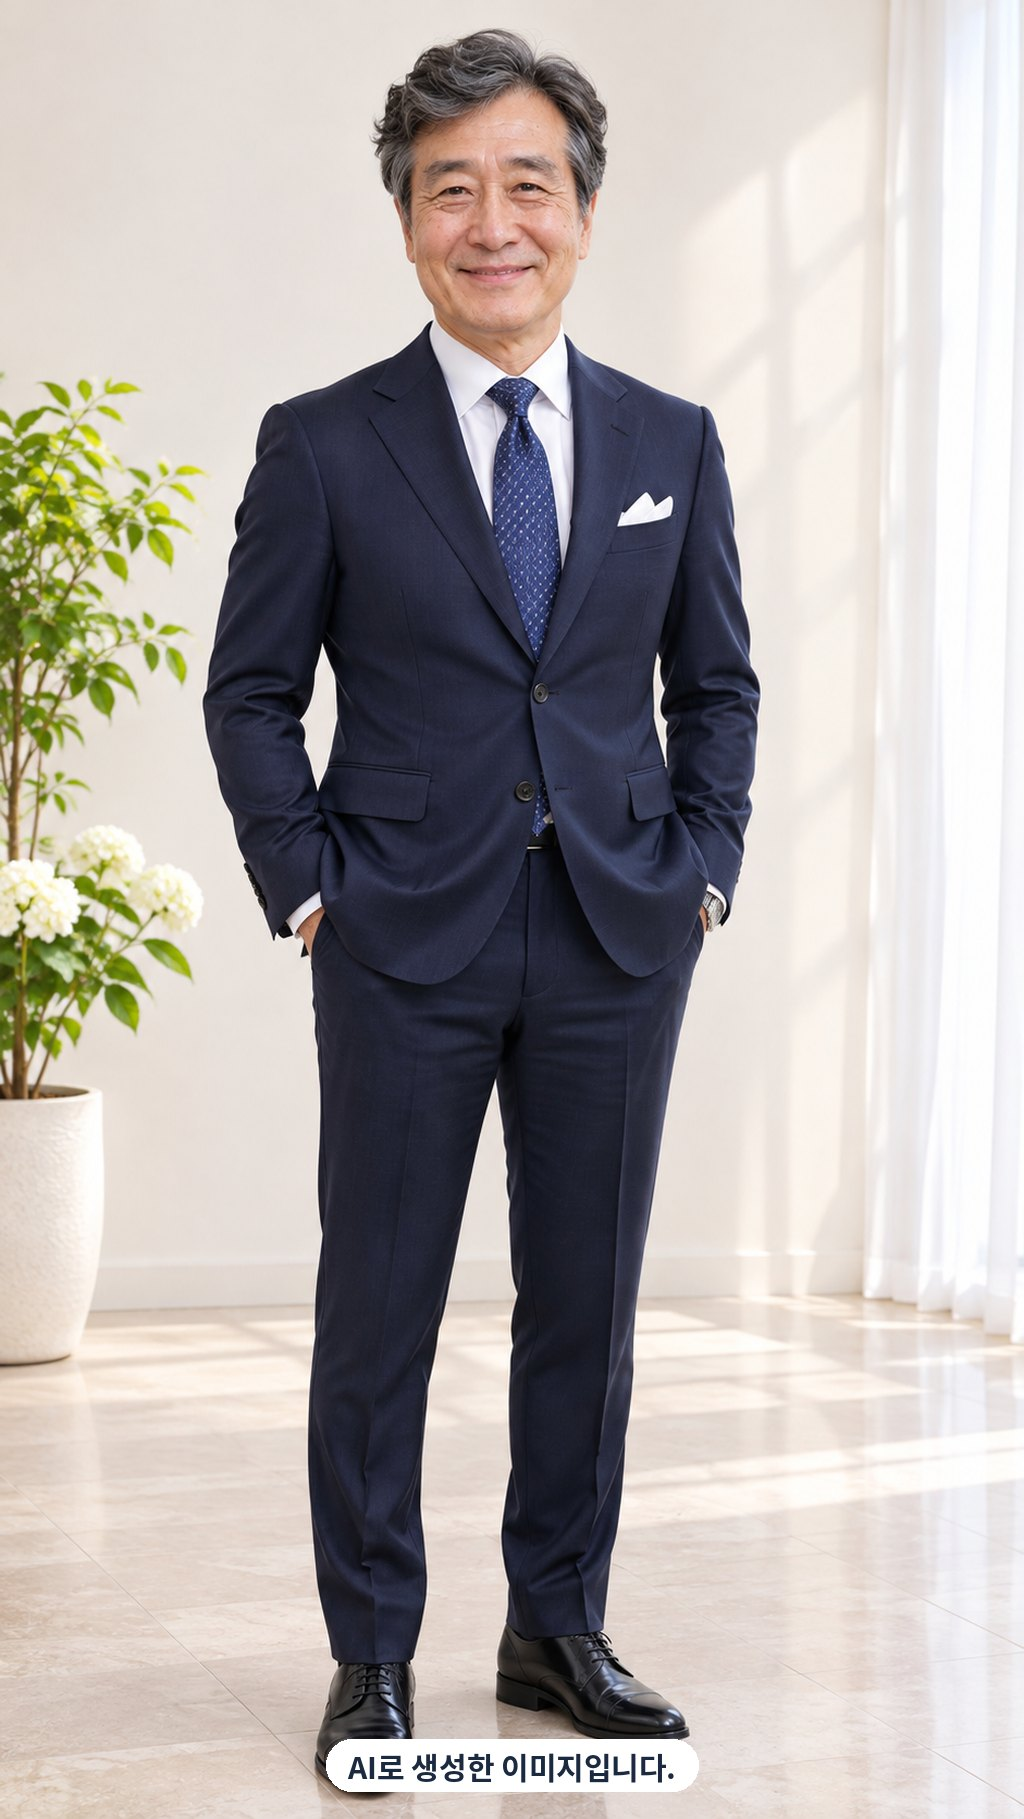
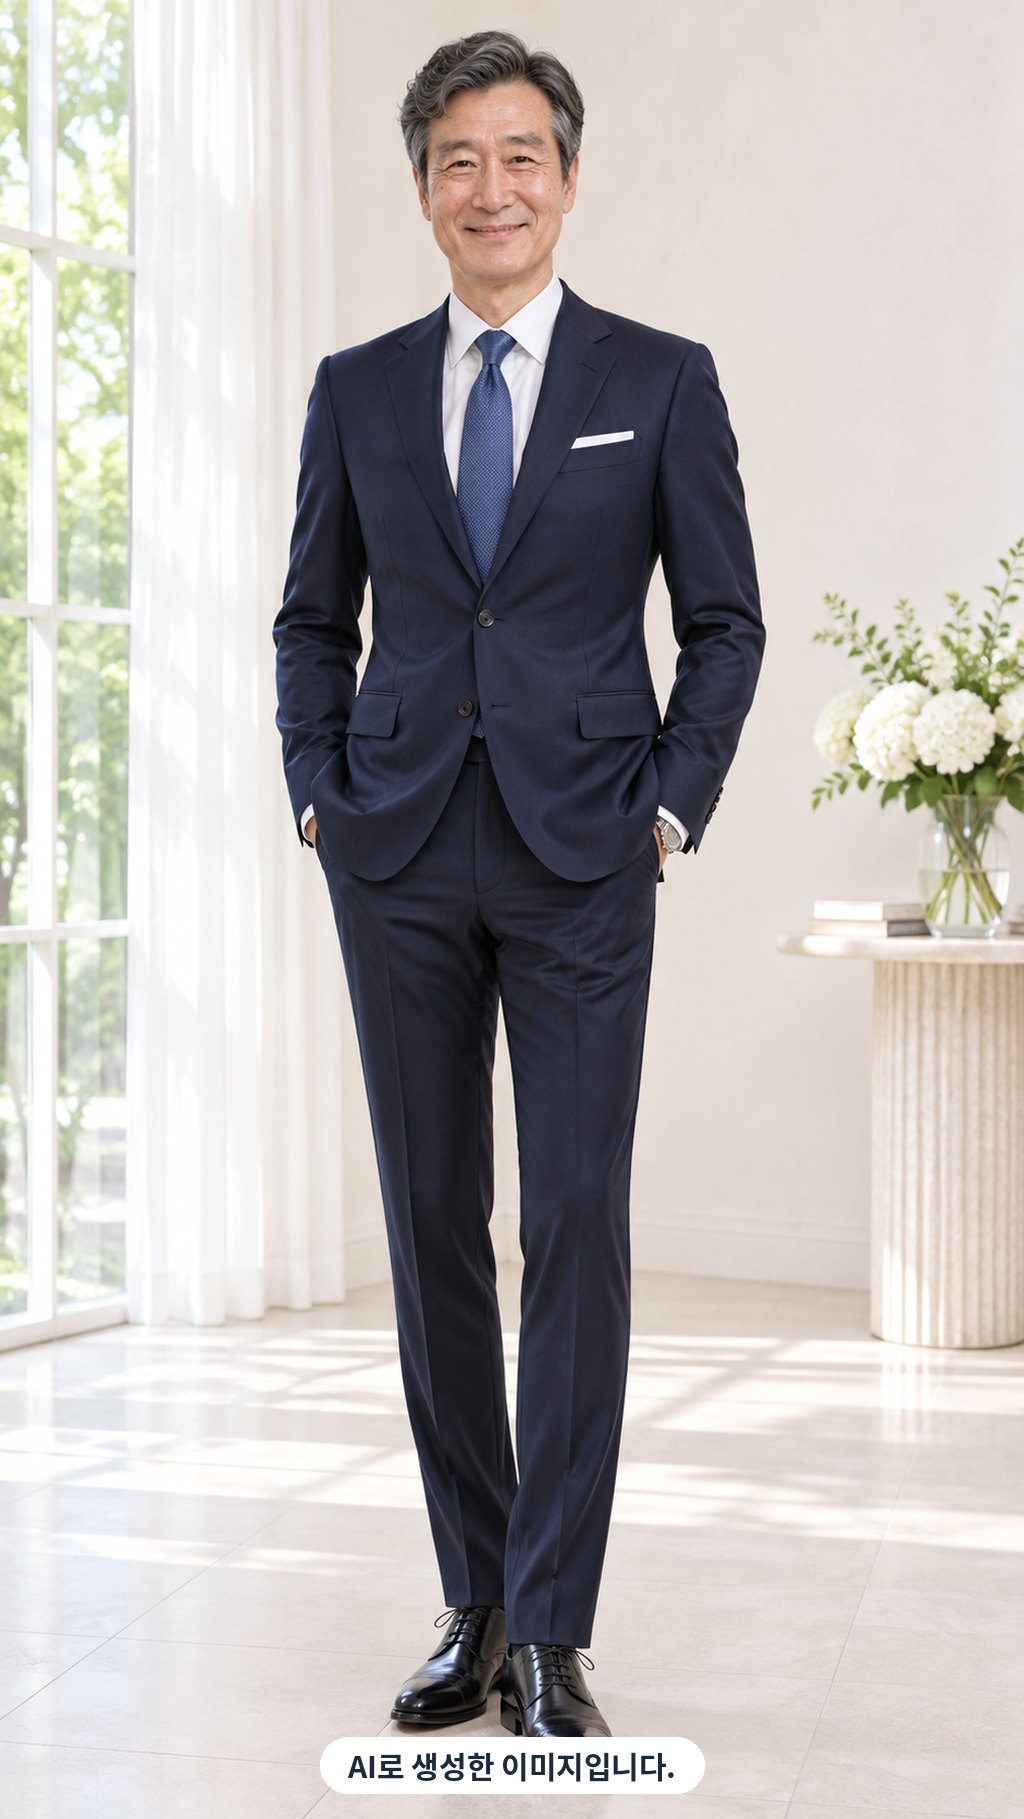
v1.0 미리보기: 옷 갈아입히기 문장에 체형 문구, 예시 그림 교체
Claude-Session: https://claude.ai/code/session_01RnSNps6Fvv7BtyvBn44HhM

diff --git a/menu.js b/menu.js
@@ -74,6 +74,8 @@ window.MENU = {
     "글영상": { items: [["생성 유형", "동영상"], ["사진", "넣지 않아요"], ["방향", "세로 9:16"], ["출력 수", "×1"], ["모델", "Omni 1.2 Flash"], ["화질", "360p"], ["길이", "5초"]],
       note: "이대로 맞추면 영상 1개에 5크레딧이 들어요 (무료는 하루 50크레딧)" }
   },
+  /* 문장 틀 바꾸기 (미리보기용). 챗GPT 시험에서 머리 비율이 가장 나았던 문구 */
+  template: { "11-1": "사진 속 인물이 {명절} 자연스럽게 미소를 짓는 모습으로 만들어 줘. 밝고 화사한 컬러 사진, 얼굴이 작고 키가 큰 모델 같은 체형, 머리부터 발끝까지 나오는 전신 사진, 9:16 비율." },
   rename: {
     "11-1": "내 사진 옷 갈아입히기", "11-2": "내 사진으로 인사 영상", "11-3": "명절 인사말 쓰기", "11-4": "움직이는 명절 배경"
   },

diff --git a/app.js b/app.js
@@ -52,6 +52,7 @@
       if (MENU.rename && MENU.rename[c.id]) c.title = MENU.rename[c.id];
       else c.title = c.title.replace(/^[①-⑨]\s*/, "").replace(/^추가 · /, "");
       if (MENU.desc && MENU.desc[c.id]) c.desc = MENU.desc[c.id];
+      if (MENU.template && MENU.template[c.id]) c.template = MENU.template[c.id];
       var o = MENU.options && MENU.options[c.id];
       if (o) c.groups.forEach(function (g) {
         if (g.key !== o.key) return;
